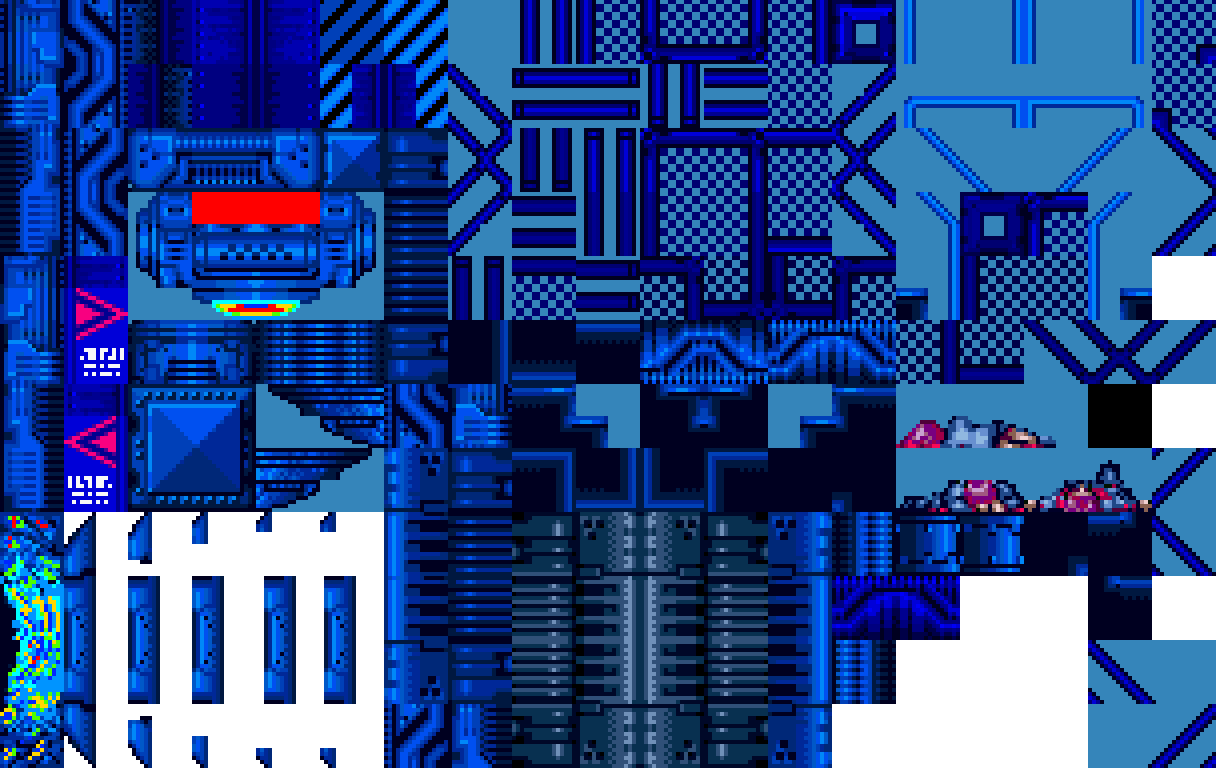
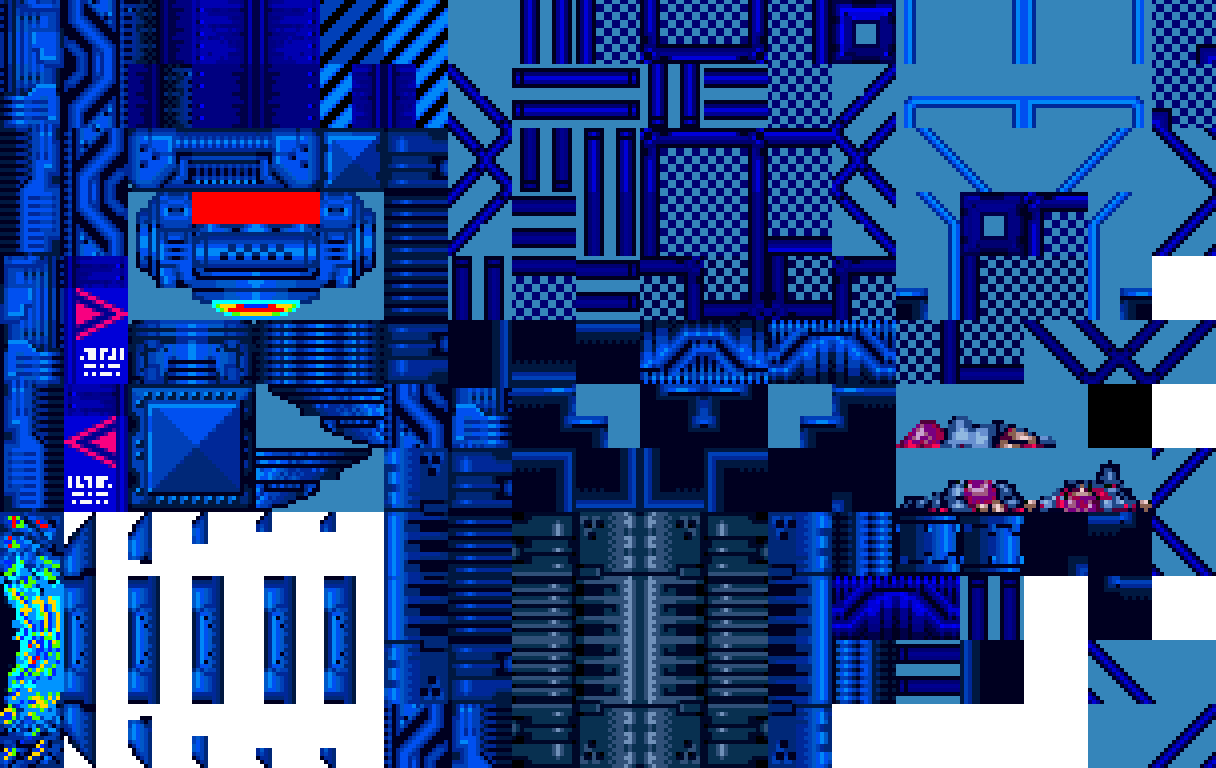
smá sprite og tile fixes

Changed region(s): [[0.7188, 0.75, 0.8438, 0.9375], [0.375, 0.5, 0.4062, 0.5312]]

diff --git a/Map.js b/Map.js
@@ -68,7 +68,7 @@ var Map = {
         ['DL2','DL6','0','0','0','0','0','0','0','0','0','0','0','0','0','0','0','0','0','0','0','0','0','0','0','0','0','0','0','0','DR2','DR6'],
         ['DL3','DL7','rL','tL','!FT','0','0','0','0','0','0','0','0','0','0','0','0','0','0','0','0','0','0','0','0','0','0','/FT','rR','tR','DR3','DR7'],
         ['DL4','DL8','[L','[R','!FB','!FT','0','0','0','0','0','0','0','0','0','0','0','0','0','0','0','0','0','0','0','0','/FT','/FB',']L',']R','DR4','DR8'],
-        ['B-','B-','B-','STL','StTL','!FB','!FT','0','0','0','0','0','0','0','0','0','0','0','0','0','0','0','0','0','0','FT/','/FB','StTR','SBR','B-','B-','B-'],
+        ['B-','B-','B-','STL','StTL','!FB','!FT','0','0','0','0','0','0','0','0','0','0','0','0','0','0','0','0','0','0','/FT','/FB','StTR','STR','B-','B-','B-'],
         ['B','B','B','B','StBL','StTL','!|F','0','0','0','0','0','0','0','0','0','0','0','0','0','0','0','0','0','0','|/F','StTR','StBR','B','B','B','B'],
         ['B','B','B','B','B','StBL','s|','0','0','0','0','#TL','#TR','#TL','#TR','#TL','#TR','#TL','#TR','#TL','#TR','0','0','0','0','|s','StBR','B','B','B','B','B'],
         ['B','B','B','B','B','B','BBsL','B-|','BL','BR','BL','#BL','#BR','#BL','#BR','#BL','#BR','#BL','#BR','#BL','#BR','BR','BL','BR','B|-','BBsR','B','B','B','B','B','B'],
@@ -76,13 +76,14 @@ var Map = {
         ['B','B','B','B','B','B','B','B','B','B','B','B','B','B','B','B','B','B','B','B','B','B','B','B','B','B','B','B','B','B','B','B']
     ],
     doors: [{x:64, y:384, direction:'left'}, {x:1920, y:384, direction:'right'}],
-    player: [{x:160, y:575}, {x:1824, y:575}]},
+    player: [{x:160, y:576}, {x:1824, y:576}]},
+
     lvl3 : {map:[
         ['B','B','B','B','B','B','B','B','B','B','B','B','B','B','B','B'],
         ['B','B','B','B','B','B','B','B','B','B','B','B','B','B','B','B'],
         ['B','B','B','Br','B_','B_','B_','B_','B_','B_','B_','B_','B_','B_','B_','B_'],
         ['B','B','B','B|','#D','#D','#D','#D','#D','#D','#|DD','_RD','OD','XR','PR2','*R'],
-        ['B','B','B','B|','_#D','_#D','_#D','_#D','_#D','_#D','_|D','-|D','||TD','!!R','PR1','*R'],
+        ['B','B','B','B|','_#D','_#D','_#D','_#D','_#D','_#D','_|D','-|D','||D','!!R','PR1','*R'],
         ['B_','B_','B_','B_|','0','||D','|#DD','#D','#D','#D','#D','#|DD','||MD','0','PR2','*R'],
         ['DL1','DL5','D/','MR/','0','||ML','|#L','#L','#L','#L','#L','#|L','||BL','//R','PR1','*R'],
         ['DL2','DL6','EL','<1','0','||ML','|#L','#L','#L','#L','#r','_|L','OL','XR','PR2','*R'],
@@ -91,16 +92,16 @@ var Map = {
         ['B-','B-','B-','B-','B-','B-','B-','B-','B-','B-','B-','B-|','#D','#|L','PR1','*R'],
         ['B','B','B','Br','B_','B_','B_','B_','B_','B_','B_','B_|','#D','#|L','PR2','*R'],
         ['B','B','Br','B_|','|#DD','#D','#|DD','_LD','_MD','_MD','_RD','|_D','_#D','_|L','PR1','*R'],
-        ['B_','B_','B_|','-|D','|#D','#D','#|D','0','0','/FT','rR','tR','0','0','PR2','*R'],
-        ['*L','PL1','#D','#|D','|#L','#L','#|L','0','/FT','/FB',']L',']R','0','0','PR1','*R'],
+        ['B_','B_','B_|','-|D','|#DL','#D','#|DD','0','0','/FT','rR','tR','0','0','PR2','*R'],
+        ['*L','PL1','#D','#|DL','|#L','#L','#|L','0','/FT','/FB',']L',']R','0','0','PR1','*R'],
         ['*L','PL2','#D','#|L','|#L','#r','_|L','/FT','/FB','StTR','STR','B-','B-','B-','B-','B-'],
         ['*L','PL1','_#L','_|L','|#L','#|L','0','|/F','StTR','StBR','B','B','B','B','B','B'],
         ['*L','PL2','|-L','-#L','-|L','_|L','0','|s','StBR','B','B','B','B','B','B','B'],
         ['*L','PL1','|#L','#D','B|-','B-','B-','BBsR','B','B','B','B','B','B','B','B'],
         ['*L','PL2','|#L','#D','B|_','B_','B_','B_','B_','B_','B_','B_','Bt','B','B','B'],
-        ['*L','PL1','|_L','_#D','_|D','_LD','_MD','_RD','OD','|#DD','#D','#|DD','B|','B','B','B'],
+        ['*L','PL1','|_L','_#D','_|D','_LD','_MD','_RD','OD','|#DD','#D','#|DD','|B','B','B','B'],
         ['*L','PL2','#r','_|L','rL','tL','!FT','0','||TD','|_D','_#D','_|D','B|_','B_','B_','B_'],
-        ['*L','PL1','_|L','0','[R',']L','!FB','!FT','OL','_LL','_ML','_RL','MR/','D/','DR1','DR5'],
+        ['*L','PL1','_|L','0','[L','[R','!FB','!FT','OL','_LL','_ML','_RL','MR/','D/','DR1','DR5'],
         ['B-','B-','B-','B-','B-','STL','StTL','!FB','!FT','0','0','0','>1','ER','DR2','DR6'],
         ['B','B','B','B','B','B','StBL','StTL','!|F','0','0','0','>2','ER','DR3','DR7'],
         ['B','B','B','B','B','B','B','StBL','s|','0','0','0','MR/','D/','DR4','DR8'],
@@ -111,14 +112,15 @@ var Map = {
         ['B','B','B','B','B','B','B','B','B','B','B','B','B','B','B','B'],
         ['B','B','B','B','B','B','B','B','B','B','B','B','B','B','B','B']
     ],
-    doors: [{x:64, y:384, direction:'left'}, {x:960, y:1408, direction:'right'}],
-    player: [{x:160, y:575}, {x:864, y:1599}]},
+    doors: [{x:64, y:384, direction:'left'}, {x:896, y:1408, direction:'right'}],
+    player: [{x:160, y:576}, {x:864, y:1600}]},
+
     lvl4 : {map:[
         ['B','B','B','B','B','B','B','B','B','B','B','B','B','B|','0','0','0','0','|B','B','B','B','B','B','B','B','B','B','B','B','B','B'],
         ['B','B','B','B','Br','B_','B_','B_','B_','B_','B_','B_','B_','B_|','0','0','0','0','B|_','B_','B_','B_','B_','B_','B_','B_','B_','Bt','B','B','B','B'],
         ['B','B','B','B','B|','!!T','XT','//T','!!T','XT','//T','!!T','XT','//T','0','0','0','0','!!T','XT','//T','!!T','XT','//T','!!T','XT','//T','|B','B','B','B','B'],
         ['B','B','B','B','B|','_RD','OD','_LD','_RD','OD','_LD','_RD','OD','_RD','0','0','0','0','_LD','OD','_LD','_RD','OD','_LD','_RD','OD','_LD','|B','B','B','B','B'],
-        ['B','B','B','B','B|','|-DD','-#D','-#D','-#D','-|D','|-DD','-#D','-|D','0','0','0','0','0','0','|-DD','-#D','-|D','|-DD','-#D','-#D','-#D','-|D','|B','B','B','B','B'],
+        ['B','B','B','B','B|','|-D','-#D','-#D','-#D','-|D','|-D','-#D','-|D','0','0','0','0','0','0','|-D','-#D','-|D','|-D','-#D','-#D','-#D','-|D','|B','B','B','B','B'],
         ['B_','B_','B_','B_','B_|','|#DD','#D','#D','#D','#|DD','|#DD','#D','#|DD','0','0','0','0','0','0','|#DD','#D','#|DD','|#DD','#D','#D','#D','#|DD','B|_','B_','B_','B_','B_'],
         ['DL1','DL5','0','0','0','|_L','_#L','#t','#L','#|L','|_L','_#L','_|L','0','0','0','0','0','0','|_L','_#L','_|L','|#L','#L','#r','_#L','_|L','0','0','0','DR1','DR5'],
         ['DL2','DL6','0','0','0','0','0','|#L','#L','#|L','0','0','0','0','0','0','0','0','0','0','0','0','|#L','#L','#|L','0','0','0','0','0','DR2','DR6'],
@@ -127,13 +129,14 @@ var Map = {
         ['B-','B-','B-','STL','StTL','!FB','!FT','0','0','0','0','0','0','0','0','0','0','0','0','0','0','0','0','0','0','/FT','/FB','StTR','STR','B-','B-','B-'],
         ['B','B','B','B','StBL','StTL','!|F','0','0','0','0','0','0','0','0','0','0','0','0','0','0','0','0','0','0','|/F','StTR','StBR','B','B','B','B'],
         ['B','B','B','B','B','StBL','s|','0','0','0','Ts1','Ts2','Ts3','0','0','0','0','0','0','Tb1','Tb2','Tb3','Tb4','0','0','|s','StBR','B','B','B','B','B'],
-        ['B','B','B','B','B','B','BBsL','B-','B-','B-','B-','B-','B-','B-|','0col','0col','0col','0col','B|-','B-','B-','B-','B-','B-','B-','0','0','0','B','B','B','B'],
+        ['B','B','B','B','B','B','BBsL','B-','B-','B-','B-','B-','B-','B-|','0col','0col','0col','0col','B|-','B-','B-','B-','B-','B-','B-','BBsR','B','B','B','B','B','B'],
         ['B','B','B','B','B','B','B','B','B','B','B','B','B','B|','0col','0col','0col','0col','|B','B','B','B','B','B','B','B','B','B','B','B','B','B'],
         ['B','B','B','B','B','B','B','B','B','B','B','B','B','B|','0col','0col','0col','0col','|B','B','B','B','B','B','B','B','B','B','B','B','B','B']
 
     ],
     doors: [{x:64, y:384, direction:'left'}, {x:1920, y:384, direction:'right'}],
-    player: [{x:160, y:575}, {x:1824, y:575}]},
+    player: [{x:160, y:576}, {x:1824, y:574}]},
+
     lvl5 : {map:[
         ['B','B','B','B','B','B','B','B','B','B','B','B','B','B','B','B','B','B','B','B','B','B','B','B','B','B','B','B','B','B','B','B'],
         ['B','B','B','B','B','B','B','B','B','B','B','B','B','B','B','B','B','B','B','B','B','B','B','B','B','B','B','B','B','B','B','B'],
@@ -142,9 +145,9 @@ var Map = {
         ['B','B','B','B','B','B','B','B','B','B','B','B','B','B','B','B','B','B','B','B','B','B','B','B','B','B','B','B','B','B','B','B'],
         ['B_','B_','B_','B_','B_','B_','B_','B_','B_','B_','B_','B_','B_','B_','B_','B_','B_','B_','B_','B_','B_','B_','B_','B_','B_','B_','B_','B_','B_','B_','B_','B_'],
         ['DL1','DL5','D/','ML/','|-D','-|D','OD','!!ext3','.ext1','||MD','|-D','-#D','-#D','-#D','-|D','||MD','.ext2','//ext3','OD','|-D','-|D','|-D','-#D','-#D','-|D','||MD','|-D','-|D','MR/','D/','DR1','DR5'],
-        ['DL2','DL6','EL','<1','|#L','#|L','||TL','!!ext1','!!L','||BL','|#L','#L','#L','#L','#|L','||BL','//R','//ext2','||TL','|#L','#|L','|#L','#L','#L','#|L','||BL','|#L','#|L','>1','ER','DR2','DR6'],
+        ['DL2','DL6','EL','<1','|#L','#|L','||TL','!!ext1','!!L','||BL','|#L','#L','#L','#L','#|L','||BL','//R','!!ext2','||TL','|#L','#|L','|#L','#L','#L','#|L','||BL','|#L','#|L','>1','ER','DR2','DR6'],
         ['DL3','DL7','EL','<2','|#L','#|L','||ML','0','XL','OL','|#L','#L','#L','#L','#|L','OL','XR','0','||ML','|#L','#|L','|#L','#L','#L','#|L','OL','|#L','#|L','>2','ER','DR3','DR7'],
-        ['DL4','DL8','D/','ML/','|_L','_|L','||ML','//ext2','//L','||TL','|_L','_#L','_#L','_#L','_|L','||TL','!!R','!!ext2','||ML','|_L','_|L','|_L','_#L','_#L','_|L','||TL','|_L','_|L','MR/','D/','DR4','DR8'],
+        ['DL4','DL8','D/','ML/','|_L','_|L','||ML','//ext1','//L','||TL','|_L','_#L','_#L','_#L','_|L','||TL','!!R','//ext2','||ML','|_L','_|L','|_L','_#L','_#L','_|L','||TL','|_L','_|L','MR/','D/','DR4','DR8'],
         ['B-','B-','B-','B-','B-','B-','B-','B-','B-','B-','B-','B-','B-','B-','B-','B-','B-','B-','B-','B-','B-','B-','B-','B-','B-','B-','B-','B-','B-','B-','B-','B-'],
         ['B','B','B','B','B','B','B','B','B','B','B','B','B','B','B','B','B','B','B','B','B','B','B','B','B','B','B','B','B','B','B','B'],
         ['B','B','B','B','B','B','B','B','B','B','B','B','B','B','B','B','B','B','B','B','B','B','B','B','B','B','B','B','B','B','B','B'],
@@ -153,7 +156,8 @@ var Map = {
         ['B','B','B','B','B','B','B','B','B','B','B','B','B','B','B','B','B','B','B','B','B','B','B','B','B','B','B','B','B','B','B','B']
     ],
     doors: [{x:64, y:384, direction:'left'}, {x:1920, y:384, direction:'right'}],
-    player: [{x:160, y:575}, {x:1824, y:575}]},
+    player: [{x:160, y:576}, {x:1824, y:576}]},
+
     lvlBoss : {map:[
         ['*L','Blk','Blk','Blk','Blk','Blk','Blk','Blk','Blk','Blk','Blk','Blk','Blk','Blk','Blk','*R'],
         ['*L','Blk','Blk','Blk','Blk','Blk','Blk','Blk','Blk','Blk','Blk','Blk','Blk','Blk','Blk','*R'],

diff --git a/Tile.js b/Tile.js
@@ -186,6 +186,12 @@ Tile.prototype.setTile = function(){
         this.sy =448;
         // 128,448
     }
+    else if(this.id ==='#BR'){
+        this.collidable = true;
+        this.sx = 196;
+        this.sy = 448;
+        // 196,448
+    }
     else if(this.id ==='MLL'){
         this.collidable = false;
 
@@ -288,10 +294,10 @@ Tile.prototype.setTile = function(){
         this.collidable = false;
 
         this.sx = 256;
-        this.sy = 284;
+        this.sy = 384;
         // 256,384
     }
-    else if(this.id ==='Li4'){
+    else if(this.id ==='Li3'){
         this.collidable = false;
 
         this.sx = 256;
@@ -993,7 +999,7 @@ Tile.prototype.setTile = function(){
         // 896,128
     }
     else if(this.id ==='!|F'){
-        this.colli896able = false;
+        this.collidable = false;
         this.sx = 896;
         this.sy = 192;
         // 896,192
@@ -1031,7 +1037,7 @@ Tile.prototype.setTile = function(){
     else if(this.id ==='BFR'){
         this.collidable = true;
         this.sx = 896;
-        this.sy = 640;
+        this.sy = 576;
         // 896,640
     }
     else if(this.id ==='[R'){
@@ -1255,6 +1261,21 @@ Tile.prototype.setTile = function(){
         this.collidable = false;
         this.sx = 1152;
         this.sy = 704;
+    }
+    else if(this.id ==='|B'){
+        this.collidable = true;
+        this.sx = 960;
+        this.sy = 640;
+    }
+    else if(this.id ==='_LD'){
+        this.collidable = false;
+        this.sx = 896;
+        this.sy = 640;
+    }
+    else if(this.id ==='||D'){
+        this.collidable = false;
+        this.sx = 960;
+        this.sy = 576;
     }
     else{
         return false;

diff --git a/utils.js b/utils.js
@@ -7,10 +7,10 @@
 
 var g_canvas = document.getElementById("myCanvas");
 var g_ctx = g_canvas.getContext("2d");
-var g_camera = new Camera(0,0,Map.lvl1);
+var g_level = Map.lvl2;
+var g_camera = new Camera(0,0,g_level);
 var spatialManager = Object.create(g_spatialManager);
 var g_newLevel = false;
-var g_level = Map.lvl1;
 var spawn = 0;
 
 var util = {

diff --git a/Environment.js b/Environment.js
@@ -9,7 +9,7 @@ function Environment(lvl,descr) {
 }
 
 Environment.prototype.tileSheet = new Image();
-Environment.prototype.tileSheet.src = "resrc/enviro.png";
+Environment.prototype.tileSheet.src = "resrc/enviroEdit.png";
 Environment.prototype.objectSheet = new Image();
 Environment.prototype.objectSheet.src = "resrc/objects&Items.png"
 

diff --git a/Player.js b/Player.js
@@ -194,7 +194,7 @@ Player.prototype.render = function(ctx){
     ctx.font = "50px Arial";
     ctx.fillStyle = "white";
     ctx.textAlign = "center";
-    ctx.fillText("energy: "+ this.energy, 1100, 100);
+    ctx.fillText("energy: "+ this.energy, g_canvas.width-300, 100);
 }
 
 Player.prototype.jump = function(){

diff --git a/intro.js b/intro.js
@@ -20,7 +20,7 @@ function intro(ctx) {
     
     ctx.fillStyle = "white";
     ctx.textAlign = "center";
-    ctx.fillText("Push space to start", 700, 400); 
+    ctx.fillText("Push space to start", g_canvas.width/2, g_canvas.height/2); 
 
 
 

diff --git a/superMetroid.js b/superMetroid.js
@@ -27,7 +27,7 @@ var enemyDie = new Howl({
 });
 
 
-var entityManager = new EntityManager(Map.lvl1, spawn);
+var entityManager = new EntityManager(g_level, spawn);
 
 
 // The "nominal interval" is the one that all of our time-based units are

diff --git a/index.html b/index.html
@@ -8,7 +8,7 @@
   <body>
 
 
-	<canvas id="myCanvas" width="1400" height="800"
+	<canvas id="myCanvas" width="1024" height="800"
 		style="border: 1px solid black;">
 	Sorry, but your browser does not support the HTML5 canvas tag.
 	</canvas>
